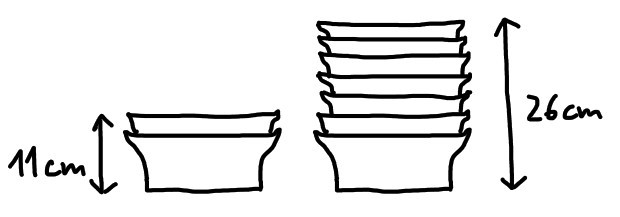
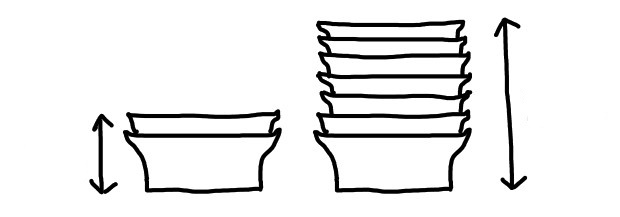
prepare dynamic, add more usability stuff to proof

Changed region(s): [[0.0, 0.6636, 0.1532, 0.8295], [0.8274, 0.4424, 0.9806, 0.5806]]

diff --git a/components/App.tsx b/components/App.tsx
@@ -649,6 +649,25 @@ export default function App() {
                   >
                     Lösungsweg anzeigen (mit Tante Tea)
                   </summary>
+
+                  {!data.hideSubmit && (
+                    <details className="my-6 mx-3 p-2 rounded-lg bg-gray-200">
+                      <summary className="cursor-pointer select-none">
+                        Aufgabenstellung
+                      </summary>
+                      <div className="mt-8 [&>p]:mt-4 [&_code]:text-pink-400 [&_code]:font-bold [&>img]:my-6 [&_a]:underline [&_a]:text-blue-600 [&_a]:hover:text-blue-700">
+                        {data.render({
+                          app,
+                          onSubmit: () => {},
+                          back: () => {},
+                          feedback: null,
+                          data: app.state.storyGeneratorData[
+                            app.state.showStory
+                          ],
+                        })}
+                      </div>
+                    </details>
+                  )}
                   <div className="mt-5 [&>p]:mt-4 [&_code]:text-pink-400 [&_code]:font-bold [&>img]:my-6 [&_a]:underline [&_a]:text-blue-600 [&_a]:hover:text-blue-700 [&_hr]:mt-4">
                     {data.proof({
                       app,
@@ -713,7 +732,7 @@ export default function App() {
                   </>
                 )}
                 <div className="absolute right-3 top-2 flex items-center flex-col">
-                  <img src="/einhorn.png" alt="Glühbirne" className="h-16" />
+                  <img src="/einhorn.png" alt="Einhorn" className="h-16" />
                   <em className="mt-1">Tina</em>
                 </div>
                 {app.state.analyze && (

diff --git a/lib/stories/49-kuechentag.tsx b/lib/stories/49-kuechentag.tsx
@@ -13,11 +13,15 @@ export const story49: StoryData = {
         rein. Während meine Eltern arbeiten, mache ich mich sehr nützlich
         (nicht) und vermesse verschiedene Schüsselstapel.
       </p>
-      <img
-        src="/story49.jpg"
-        alt="Zwei Stapeln mit Schüsseln"
-        className="w-[420px]"
-      />
+      <div className="relative my-6">
+        <img
+          src="/story49.jpg"
+          alt="Zwei Stapeln mit Schüsseln"
+          className="w-[440px]"
+        />
+        <div className="absolute left-3 top-24 text-lg">11 cm</div>
+        <div className="absolute left-[375px] top-16 text-lg">27 cm</div>
+      </div>
       <p>
         Ein Stapel mit zwei Schüsseln ist 11 cm hoch, ein Stapel mit sieben
         Schüsseln ist 26 cm hoch. Das sind die wichtigen Erkenntnisse!

diff --git a/lib/stories/40-sirup.tsx b/lib/stories/40-sirup.tsx
@@ -38,7 +38,7 @@ export const story40: StoryData<DATA> = {
       <p>
         Zurück zum Mischverhältnis: Tinas Rezept ergibt mit {250 - data.per250}{' '}
         ml Wasser plus {data.per250} ml Sirup insgesamt 250 ml Getränk, das ist
-        genau ein Viertel-Liter. Ich brauche als nur das Rezept mal vier zu
+        genau ein Viertel-Liter. Ich brauche also nur das Rezept mal vier zu
         nehmen für den Liter.
       </p>
       <p>
